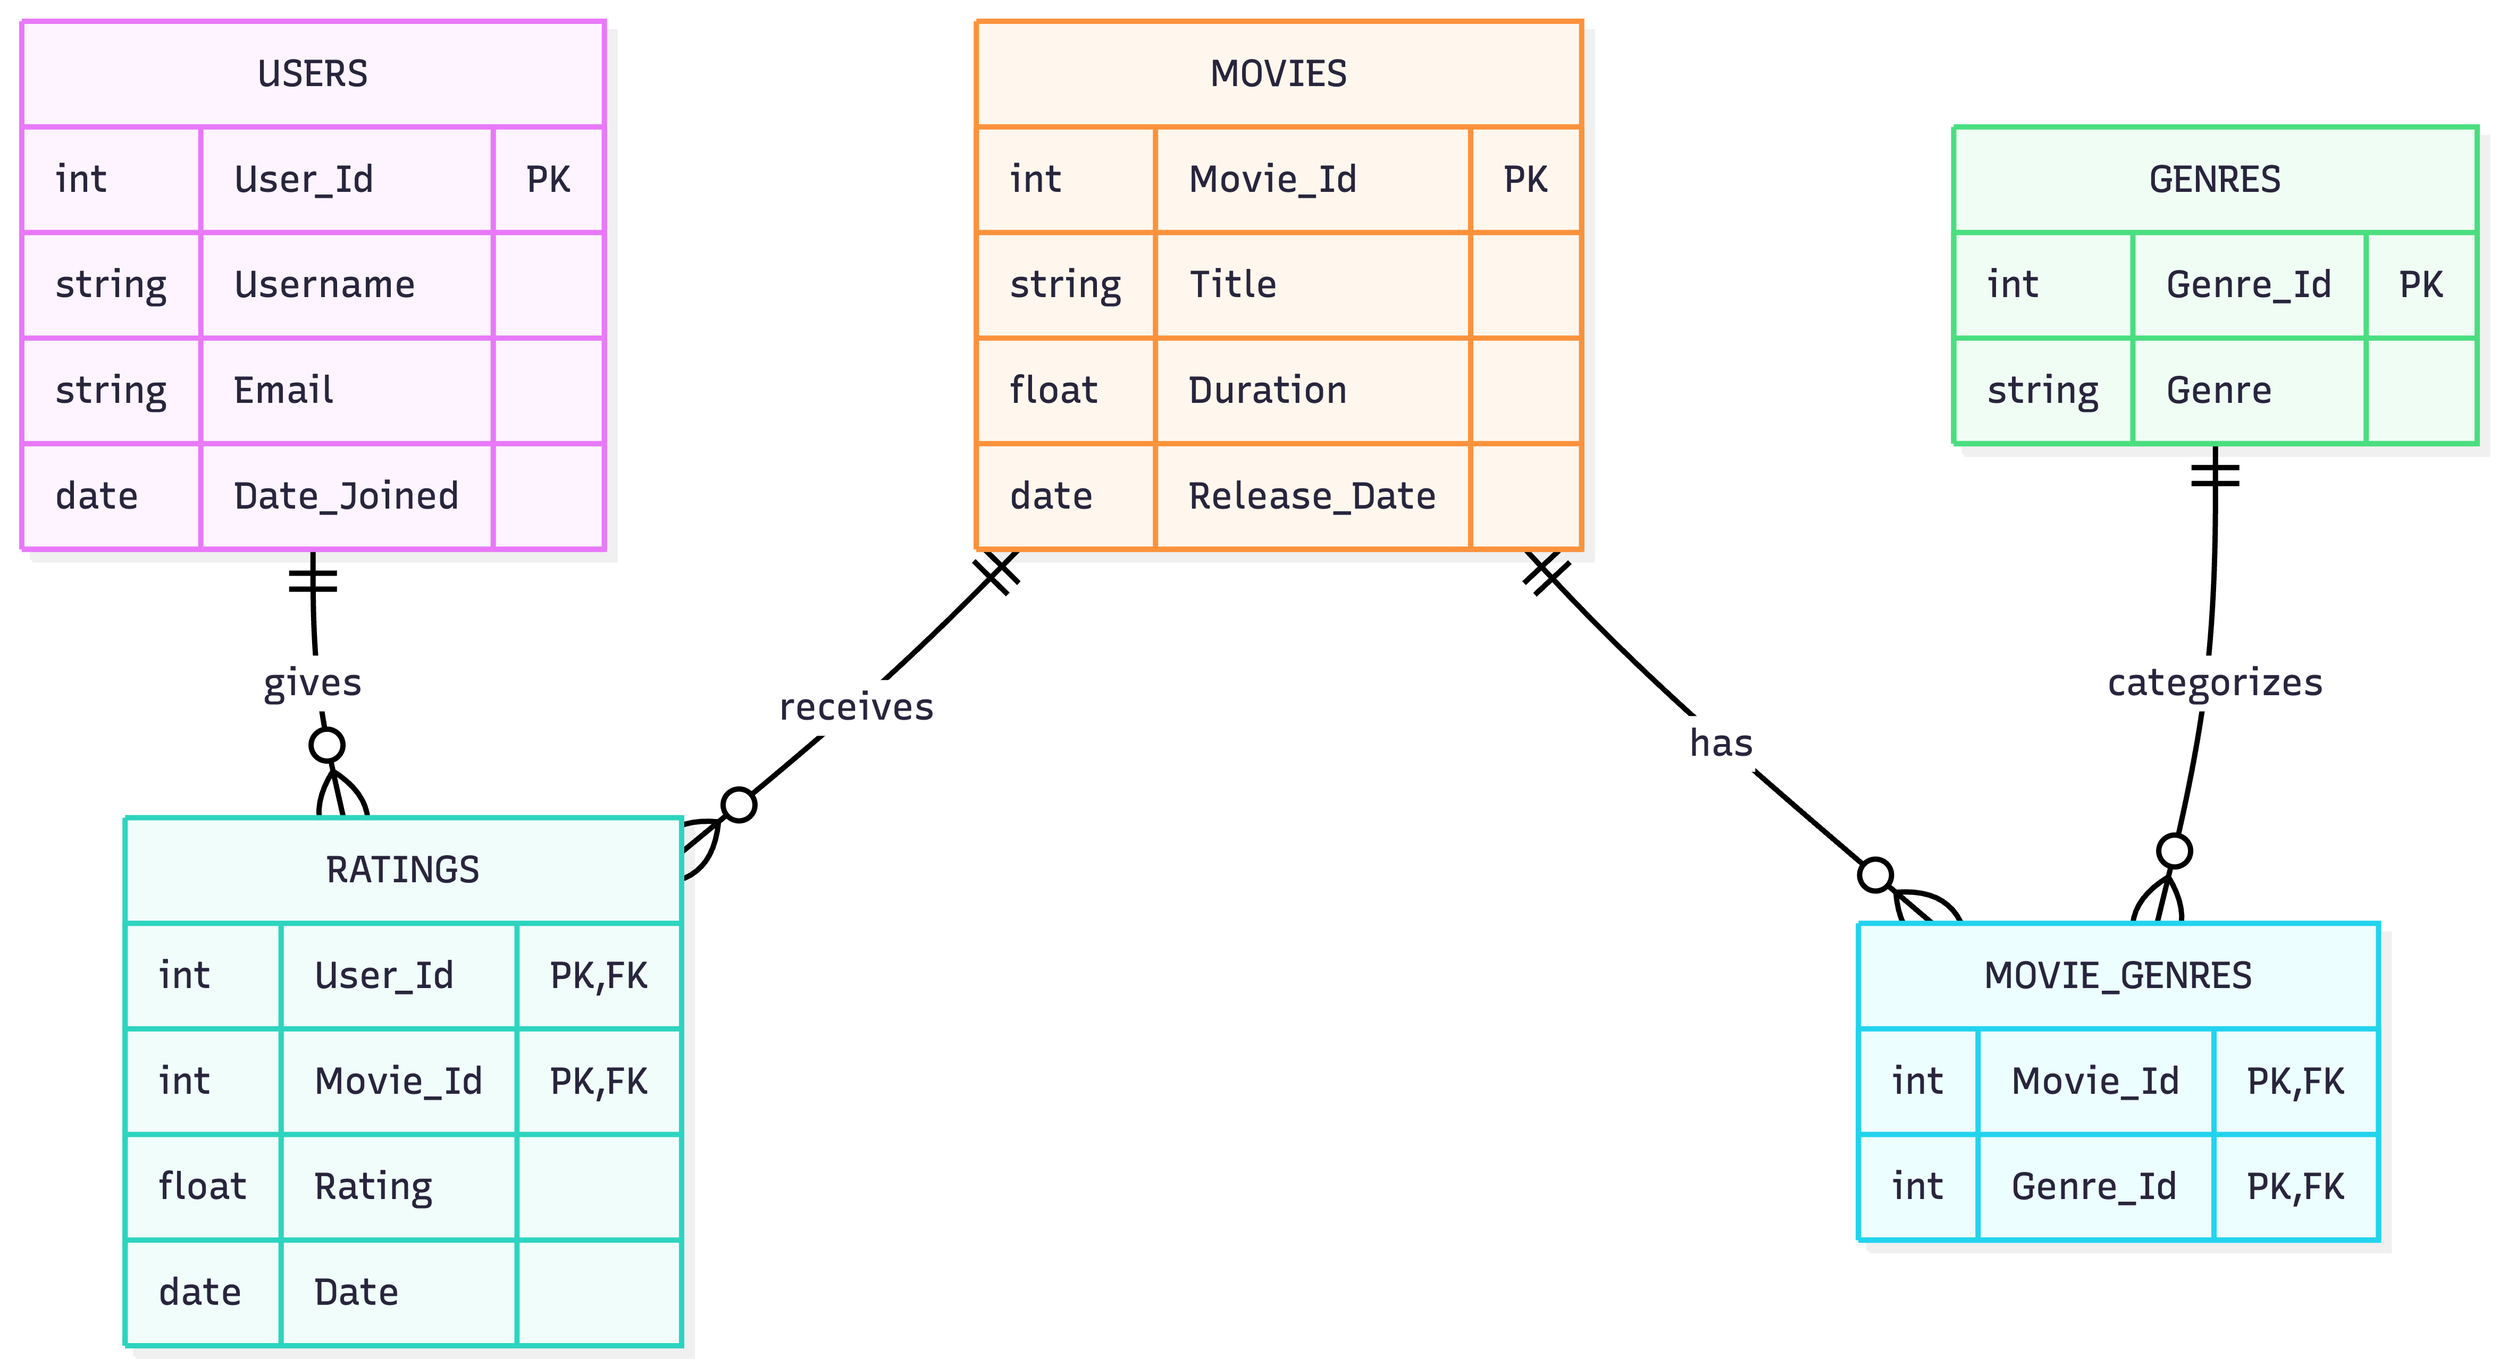
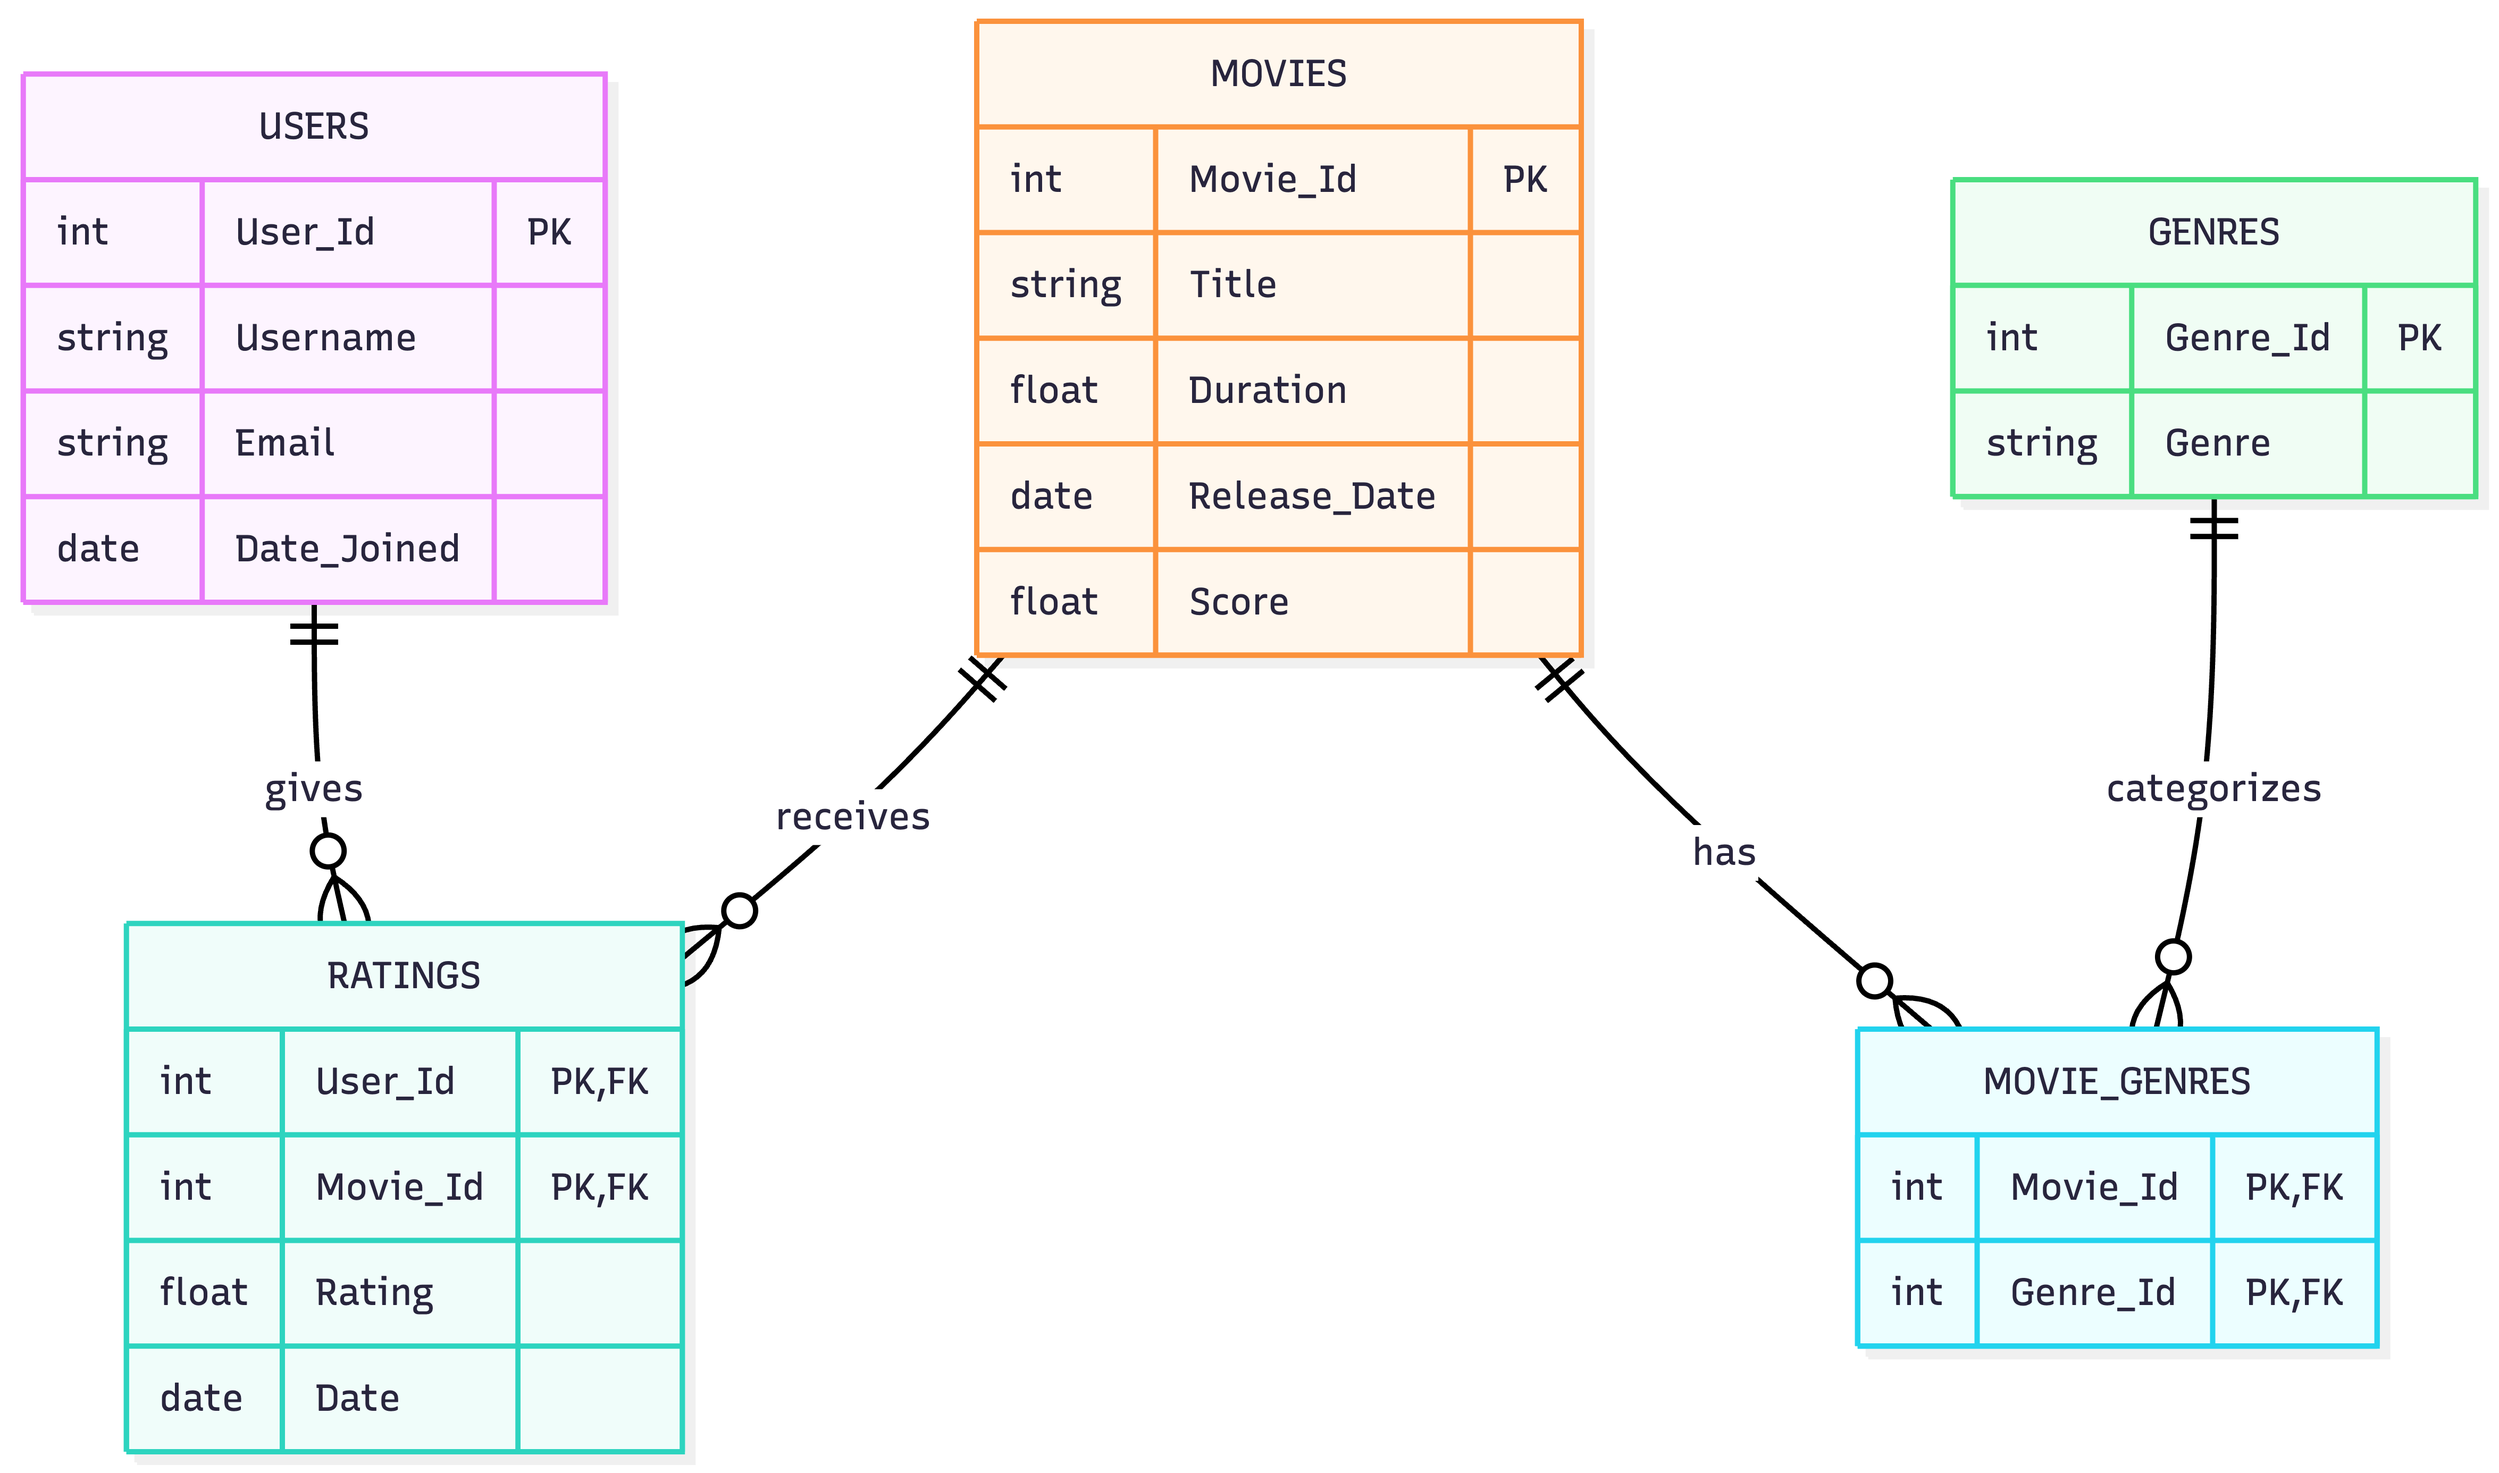
Updated schema to include average score for Movies table

diff --git a/README.md b/README.md
@@ -1,8 +1,12 @@
 # ex603-movie-tv-database
 
+A platform where users can browse movies and submit their ratings. 
+
 Name: Isabella Boulais  
 Theme: Movie/Tv  
-Description: 
+Description: This platform allows users to discover and evaluate movies. Users cna view available movies and see information such as titles, duration, release date, and average rating scored by other users on the platform. They can also explore different genres and associated movies. Users can submit or update ratings on movies, which will update the average score. 
+
+The system 
 
 # To fill in
 

diff --git a/schema/constraints.md b/schema/constraints.md
@@ -19,12 +19,13 @@
 
 ## Movies
 
-`Movies(Movie_Id: integer, Title: string, Duration: float, Release_Date: date)`
+`Movies(Movie_Id: integer, Title: string, Duration: float, Release_Date: date, Score: float)`
 
 - Movie_Id: UNIQUE, NOT NULL
 - Title: NOT NULL
 - Duration: NOT NULL, CHECK greater than 0
 - Release_Date: NOT NULL, CHECK valid date
+- Score: CHECK NULL or greater than or equal to 0
 
 ## Ratings
 

diff --git a/schema/schema-definition.md b/schema/schema-definition.md
@@ -8,7 +8,7 @@
 
 ## Movies
 
-`Movies(Movie_Id: integer, Title: string, Duration: float, Release_Date: date)`
+`Movies(Movie_Id: integer, Title: string, Duration: float, Release_Date: date, Score: float)`
 
 - **PK:** `Movie_Id`
 
